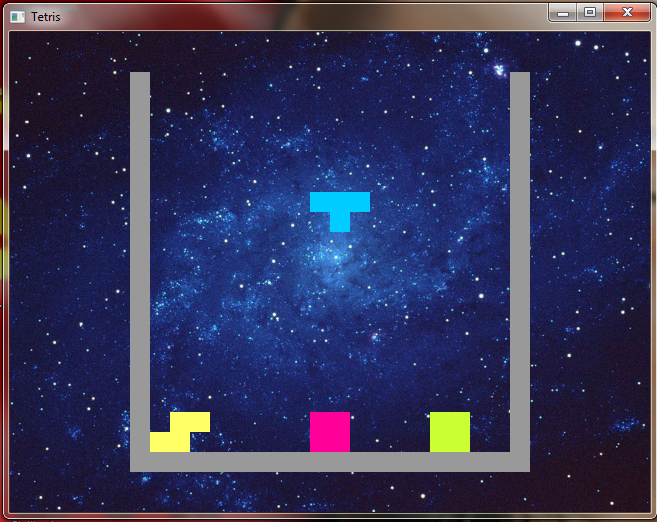
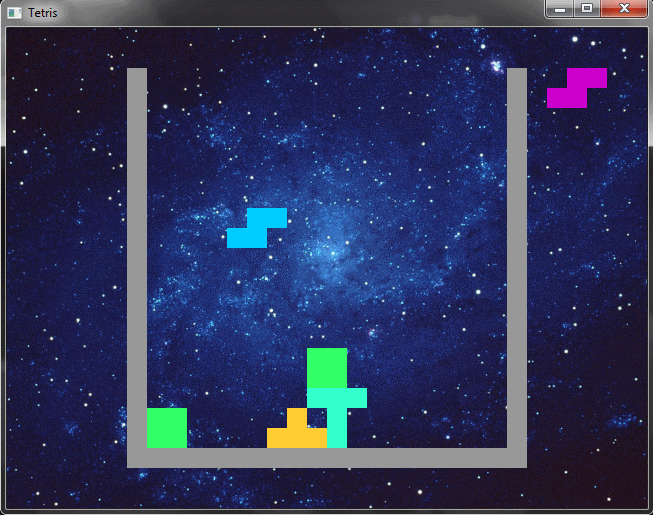
Добавлен предпросмотр блока

diff --git a/Tetris/game.cpp b/Tetris/game.cpp
@@ -86,6 +86,8 @@ namespace GameSpace
 					}
 
 					playerBlock.reset(getPrimitive(dre, static_cast<int>((fieldWidth - 2) / 2.0), 0));
+					nextBlock.reset(getPrimitive(dre, static_cast<int>((fieldWidth - 2) / 2.0), 0));
+
 					gameField = Field(fieldWidth, fieldHeight);
 
 					mainView.setCenter(Vector2f(fieldWidth*Primitive::blockSize / 2.0f, fieldHeight*Primitive::blockSize / 2.0f));
@@ -118,6 +120,9 @@ namespace GameSpace
 			{
 				playerBlock->doDraw(mainWindow);
 				gameField.doDraw(mainWindow);
+
+				if (nextBlock)
+					nextBlock->doDrawAt(mainWindow, fieldWidth + 1, 0);
 			}
 		}
 		else if (manager.getState() == GameManager::GameState::MENU)
@@ -130,6 +135,9 @@ namespace GameSpace
 			{
 				playerBlock->doDraw(mainWindow);
 				gameField.doDraw(mainWindow);
+
+				if (nextBlock)
+					nextBlock->doDrawAt(mainWindow, fieldWidth + 1, 0);
 			}
 			mainWindow.draw(pauseText);
 		}
@@ -158,7 +166,8 @@ namespace GameSpace
 					}
 					else
 					{
-						playerBlock.reset(getPrimitive(dre, static_cast<int>((fieldWidth - 2) / 2.0), 0));
+						playerBlock.swap(nextBlock);
+						nextBlock.reset(getPrimitive(dre, static_cast<int>((fieldWidth - 2) / 2.0), 0));
 					}
 				}
 				gameField.erasing();

diff --git a/Tetris/primitive.cpp b/Tetris/primitive.cpp
@@ -226,12 +226,17 @@ namespace GameSpace
 	//////////////////////////////////////////////////////////////////////////
 	void Primitive::doDraw(sf::RenderWindow& render)
 	{
+		doDrawAt(render, posX, posY);
+	}
+	//////////////////////////////////////////////////////////////////////////
+	void Primitive::doDrawAt(sf::RenderWindow& render, int positionX, int positionY)
+	{
 		for (size_t y = 0; y < scheme.size(); y++)
 		{
 			for (size_t x = 0; x < scheme[y].size(); x++)
 			{
 				if (scheme[y][x] != BlockColor::EMPTY)
-					drawBlock(render, posX + x, posY + y, scheme[y][x]);
+					drawBlock(render, positionX + x, positionY + y, scheme[y][x]);
 			}
 		}
 	}

diff --git a/Tetris/primitive.h b/Tetris/primitive.h
@@ -30,6 +30,7 @@ namespace GameSpace
 		void rotLeft(Field& field);
 		void moveRight(Field& field);
 		void moveLeft(Field& field);
+		void doDrawAt(sf::RenderWindow& render, int positionX, int positionY);
 	protected:
 		std::vector<std::vector<BlockColor>> scheme;
 		int posX, posY, state;

diff --git a/Tetris/game.h b/Tetris/game.h
@@ -28,6 +28,7 @@ namespace GameSpace
 		void doView();
 		void doLogic();
 		std::unique_ptr<Primitive> playerBlock;
+		std::unique_ptr<Primitive> nextBlock;
 		Field gameField;
 		GameManager manager;
 		Menu gameMenu;
